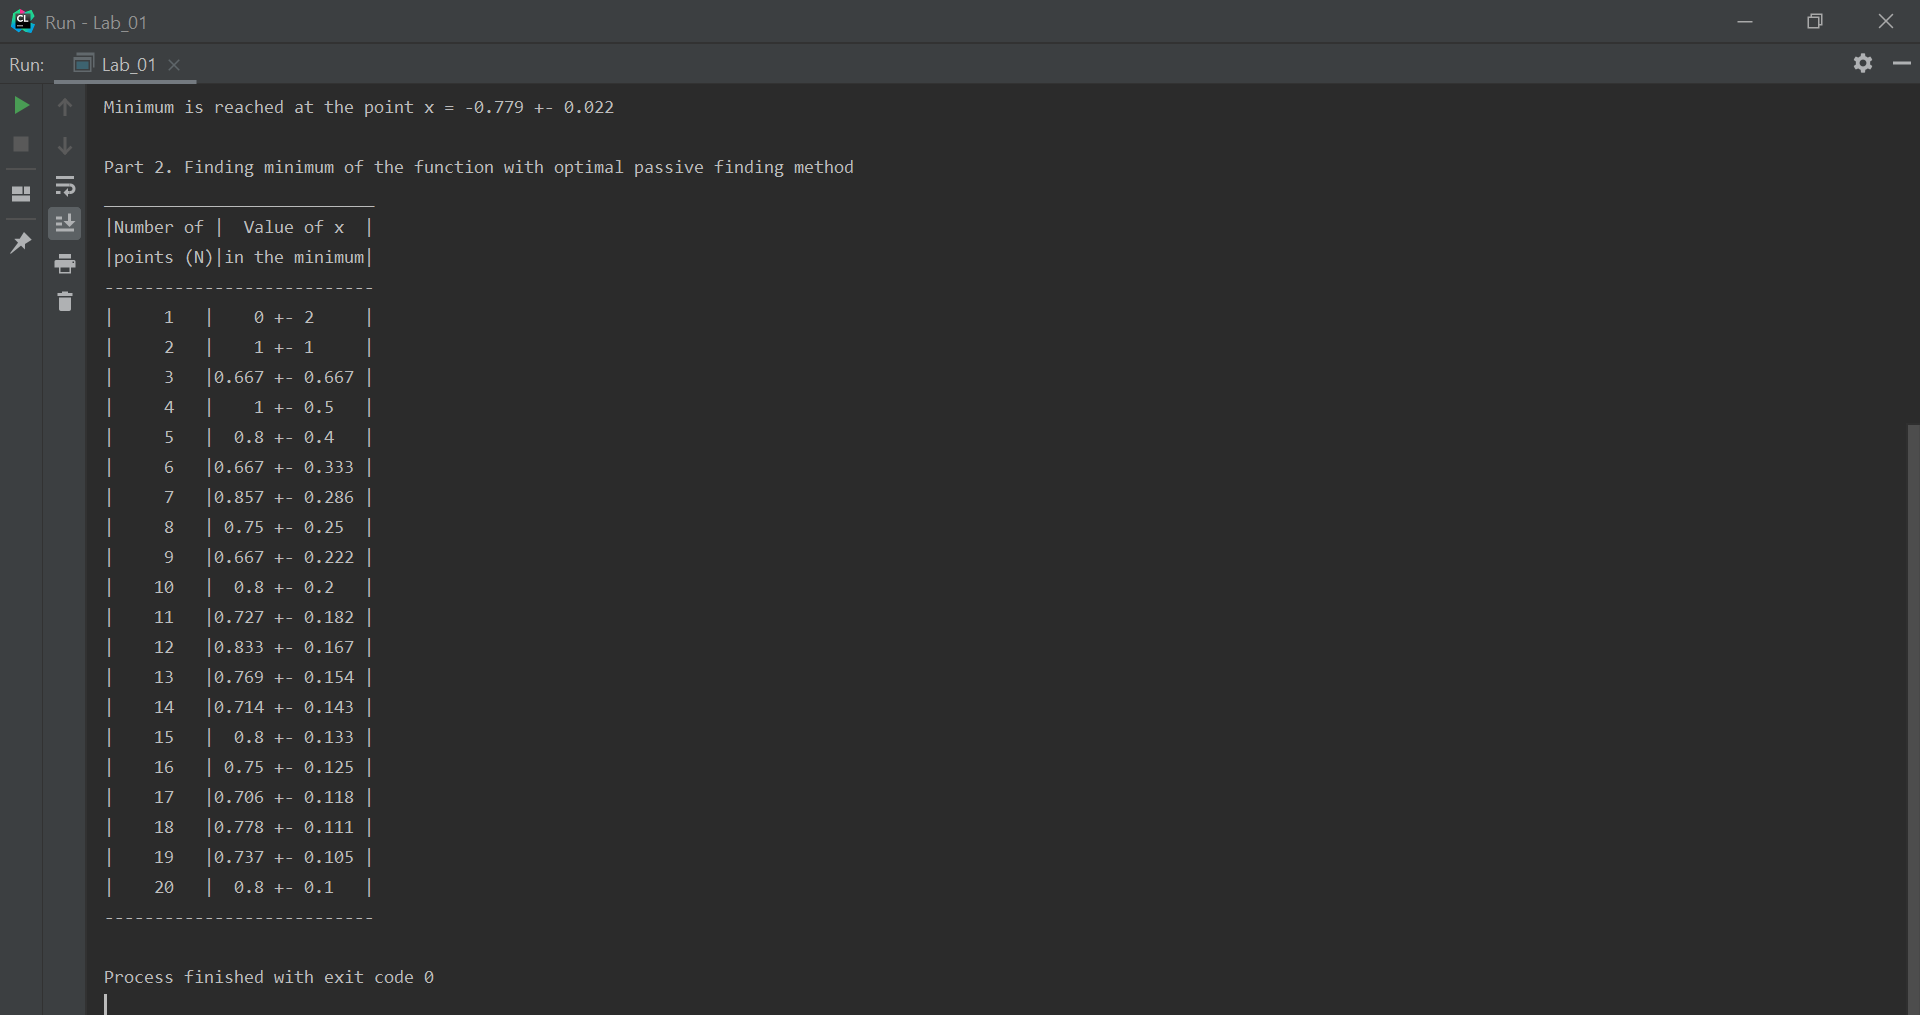
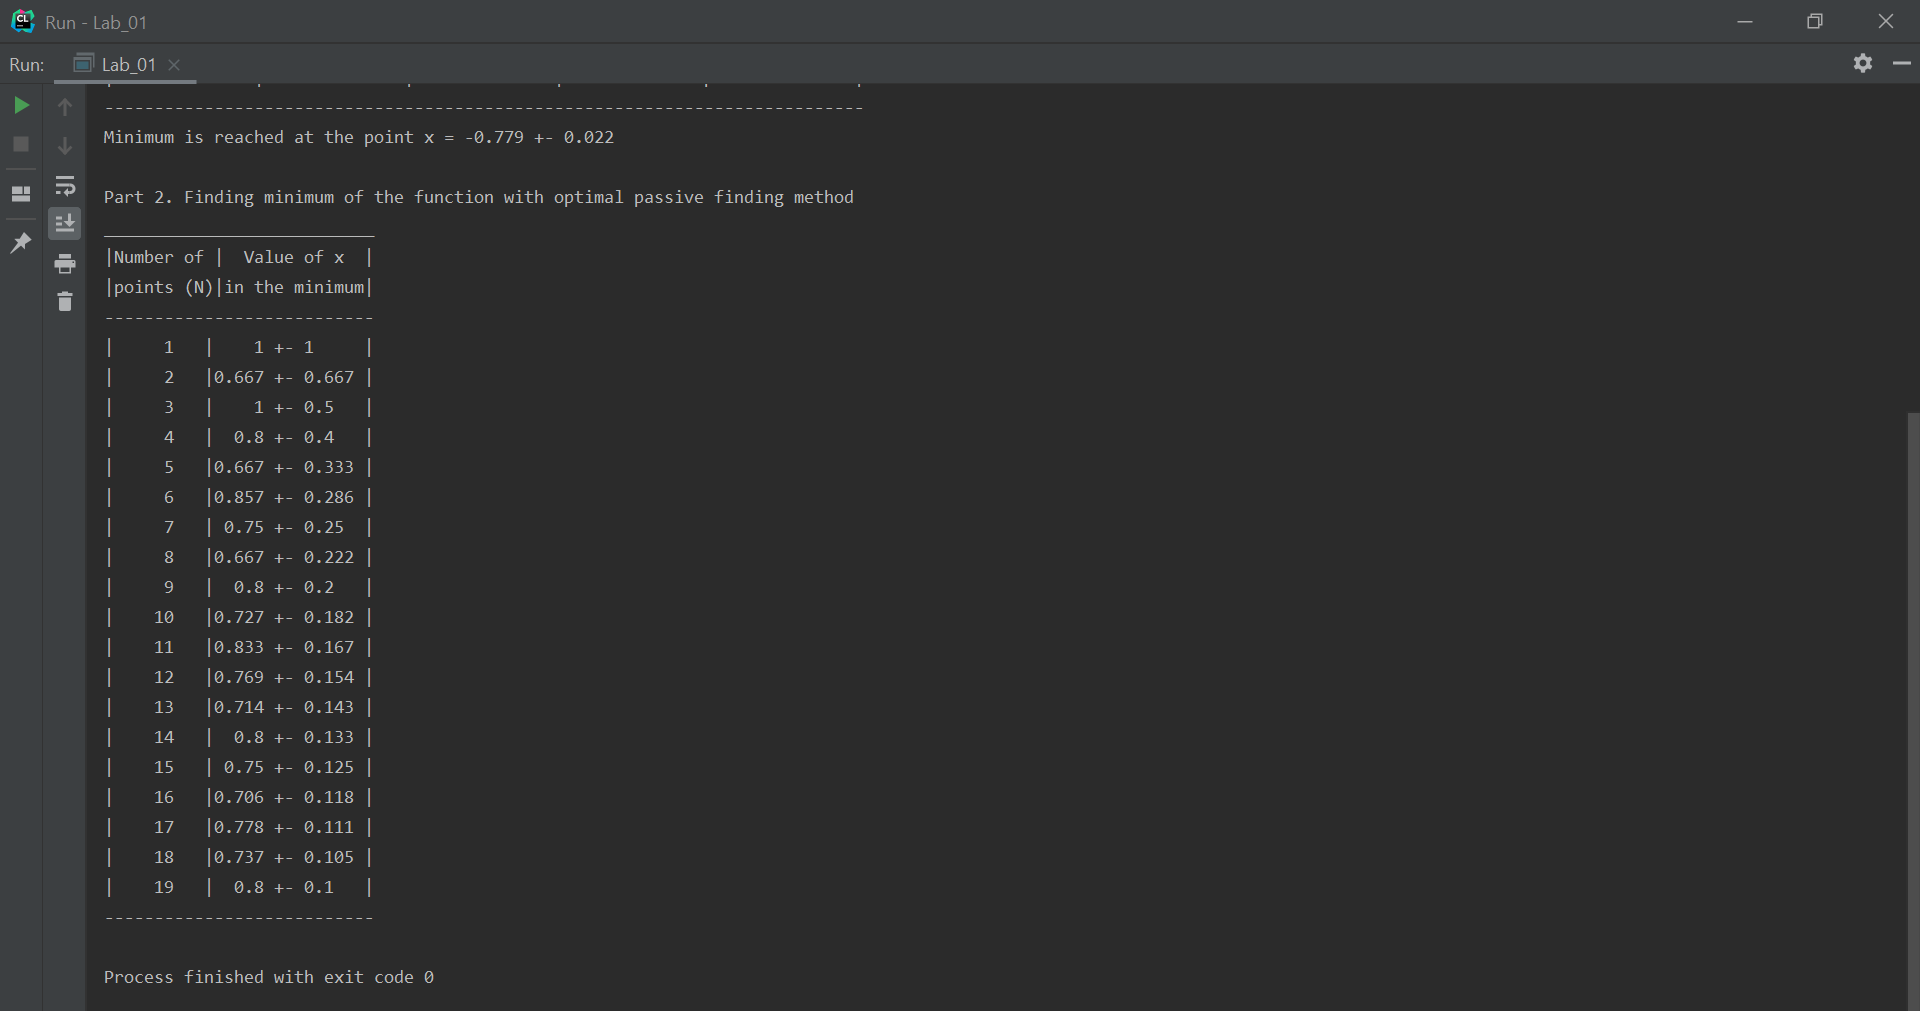
small update in optimalFinding

diff --git a/main.cpp b/main.cpp
@@ -66,18 +66,18 @@ void optimalPassiveFinding(const double lower, const double upper,
 
     size_t N = 1;
     double finding;
-    while ((upper - lower) / (N == 0 ? N : N-1) > epsilon) {
+    while ((upper - lower) / N > epsilon) {
         double x = upper;
         finding = x;
         for (size_t i = 0; i < N; ++i) {
-            x += (upper - lower) / N;
+            x += (upper - lower) / (N + 1);
             if (myFunctionFromTask(x) > myFunctionFromTask(finding))
                 finding = x;
         }
 
         std::ostringstream os;
         os << std::setw(5) << std::setprecision(3) << finding << " +- "
-            << std::setprecision(3) << (upper - lower) / N;
+            << std::setprecision(3) << (upper - lower) / (N + 1);
 
         cout << '|' << std::setw(6) << N << std::setw(4) << " |"
             << std::left << std::setw(15) << os.str() << "|\n" << std::right;
